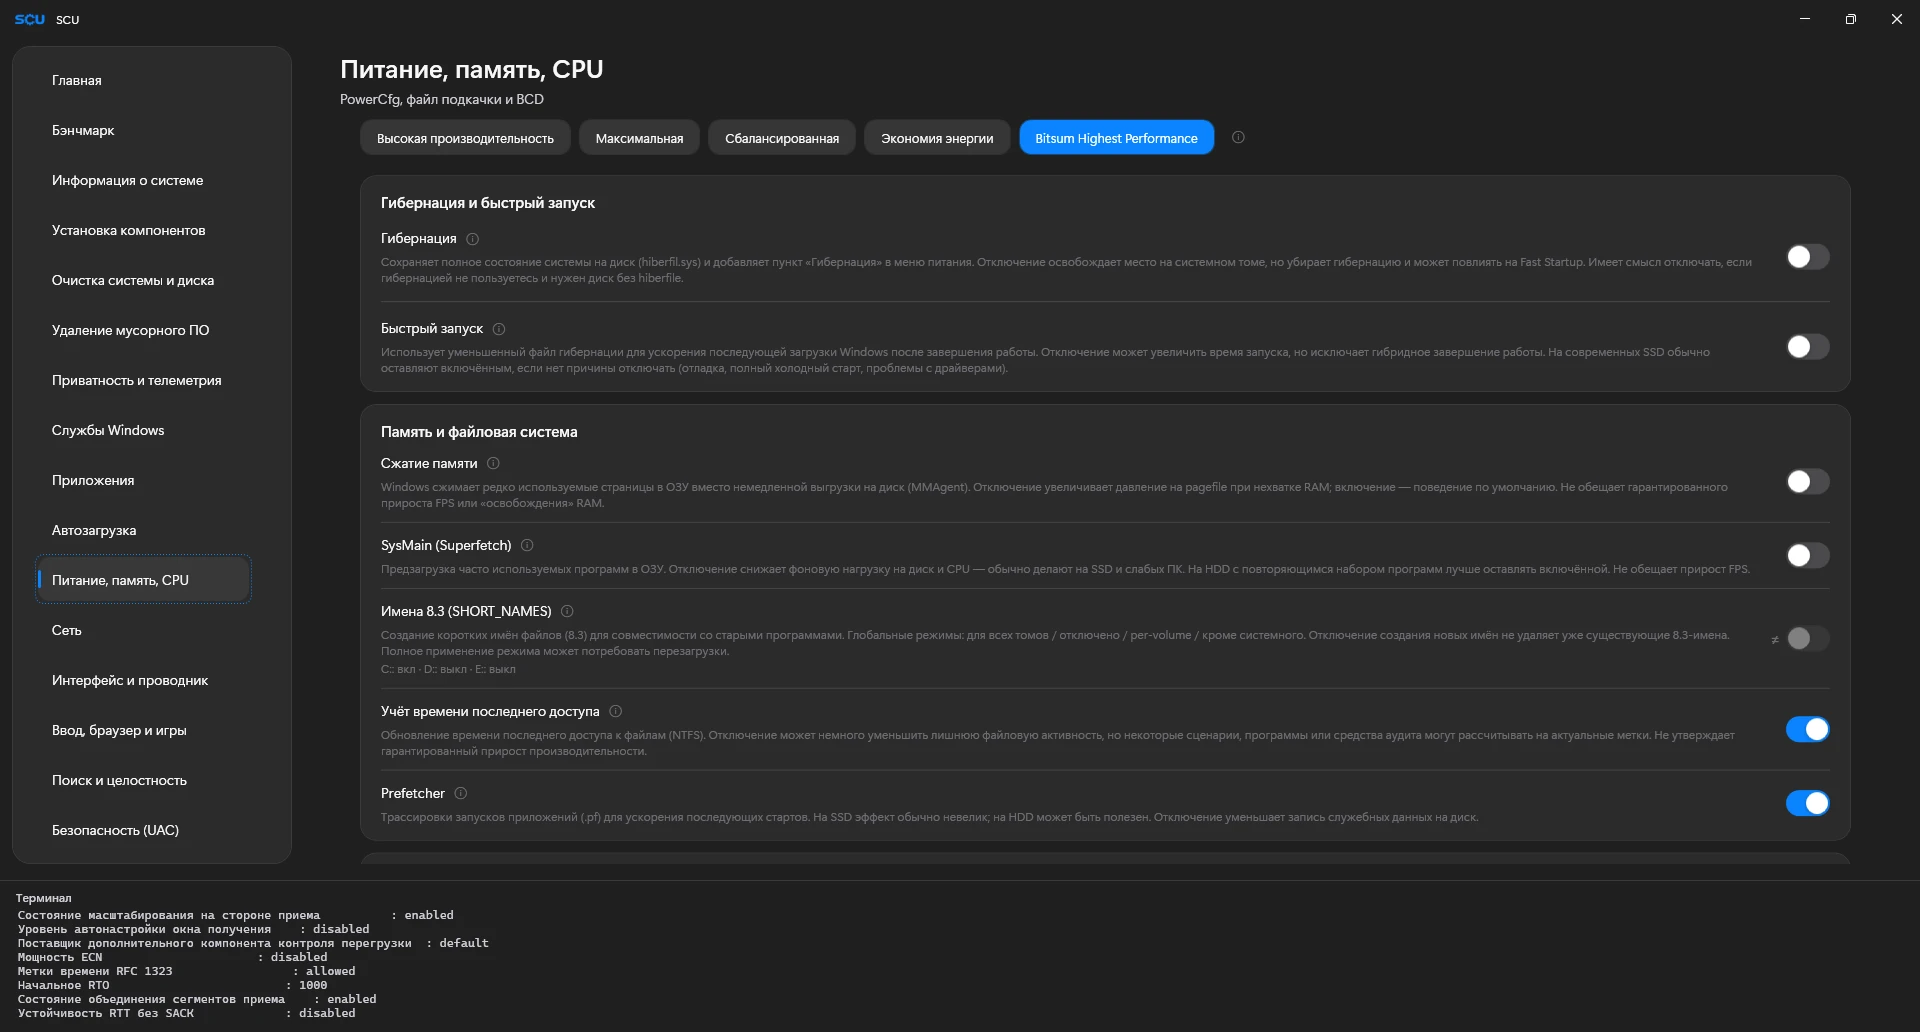
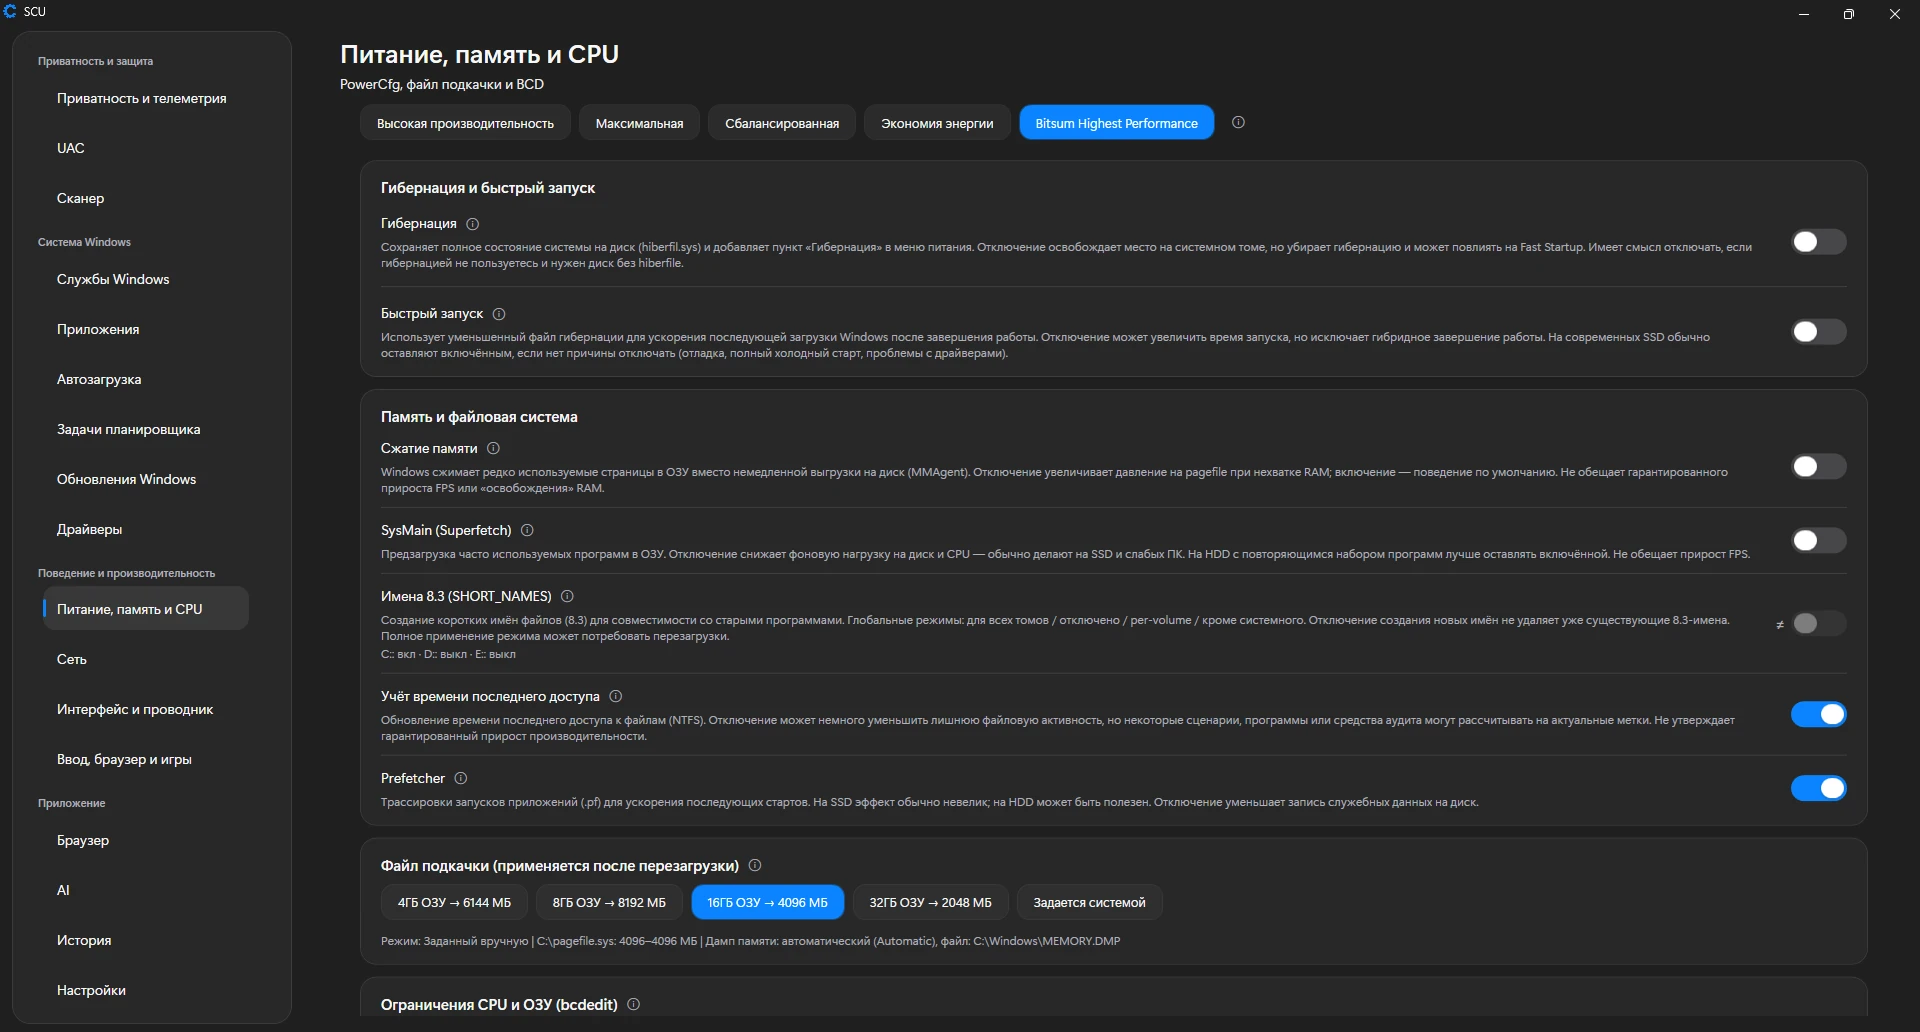
Минорное

diff --git a/index.html b/index.html
@@ -72,24 +72,32 @@
         <div class="gallery" aria-hidden="true">
             <div class="gallery-track">
                 <picture>
-                    <source srcset="static/scuapp/screen-install.webp" type="image/webp">
-                    <img src="static/scuapp/screen-install.png" width="1920" height="1032" loading="lazy" decoding="async" alt="">
+                    <source srcset="static/scuapp/screen-benchmark.webp" type="image/webp">
+                    <img src="static/scuapp/screen-benchmark.png" width="1920" height="1032" loading="lazy" decoding="async" alt="">
                 </picture>
                 <picture>
-                    <source srcset="static/scuapp/screen-cleanup.webp" type="image/webp">
-                    <img src="static/scuapp/screen-cleanup.png" width="1920" height="1032" loading="lazy" decoding="async" alt="">
+                    <source srcset="static/scuapp/screen-search.webp" type="image/webp">
+                    <img src="static/scuapp/screen-search.png" width="1920" height="1032" loading="lazy" decoding="async" alt="">
+                </picture>
+                <picture>
+                    <source srcset="static/scuapp/screen-telemetry.webp" type="image/webp">
+                    <img src="static/scuapp/screen-telemetry.png" width="1920" height="1032" loading="lazy" decoding="async" alt="">
                 </picture>
                 <picture>
                     <source srcset="static/scuapp/screen-power.webp" type="image/webp">
                     <img src="static/scuapp/screen-power.png" width="1920" height="1032" loading="lazy" decoding="async" alt="">
                 </picture>
                 <picture class="dup">
-                    <source srcset="static/scuapp/screen-install.webp" type="image/webp">
-                    <img src="static/scuapp/screen-install.png" width="1920" height="1032" loading="lazy" decoding="async" alt="">
+                    <source srcset="static/scuapp/screen-benchmark.webp" type="image/webp">
+                    <img src="static/scuapp/screen-benchmark.png" width="1920" height="1032" loading="lazy" decoding="async" alt="">
                 </picture>
                 <picture class="dup">
-                    <source srcset="static/scuapp/screen-cleanup.webp" type="image/webp">
-                    <img src="static/scuapp/screen-cleanup.png" width="1920" height="1032" loading="lazy" decoding="async" alt="">
+                    <source srcset="static/scuapp/screen-search.webp" type="image/webp">
+                    <img src="static/scuapp/screen-search.png" width="1920" height="1032" loading="lazy" decoding="async" alt="">
+                </picture>
+                <picture class="dup">
+                    <source srcset="static/scuapp/screen-telemetry.webp" type="image/webp">
+                    <img src="static/scuapp/screen-telemetry.png" width="1920" height="1032" loading="lazy" decoding="async" alt="">
                 </picture>
                 <picture class="dup">
                     <source srcset="static/scuapp/screen-power.webp" type="image/webp">

diff --git a/styles.css b/styles.css
@@ -235,14 +235,13 @@ a { color: inherit; text-decoration: none; }
 
 /* ---------- ЦЕЛЬ ---------- */
 .purpose { display: flex; margin-top: 122px; }
-/* Минимальная высота колонки задаётся самими картинками: у каждой
-   aspect-ratio 1920×1032, у трека — колонка из трёх скриншотов. Если текст
-   справа длиннее, флекс растягивает колонки на одинаковую высоту, а излишек
-   кадрируется object-fit: cover. Высота больше не зависит только от текста */
+/* Колонка скринов не тянется по высоте текстовой: картинки показываются
+   целиком, без кадрирования object-fit: cover. aspect-ratio держит высоту
+   секции до загрузки (скрины 1920×1032) — без скачка layout */
 .gallery { position: relative; width: 50%; overflow: hidden; display: flex; }
 .gallery-track { position: static; display: flex; flex-direction: column; width: 100%; }
-.gallery-track picture { flex: 1 1 auto; aspect-ratio: 1920 / 1032; min-height: 0; }
-.gallery-track picture img { width: 100%; height: 100%; object-fit: cover; }
+.gallery-track picture { flex: 0 0 auto; aspect-ratio: 1920 / 1032; min-height: 0; }
+.gallery-track picture img { width: 100%; height: auto; }
 .gallery-track picture.dup { display: none; }
 
 .info {

diff --git a/build_assets.py b/build_assets.py
@@ -5,21 +5,22 @@ import shutil
 from PIL import Image
 
 ROOT = os.path.dirname(os.path.abspath(__file__))
-STRAIGHT = os.path.join(ROOT, 'Скрины', 'Срины приложения с углами 90 градусов')
+STRAIGHT = os.path.join(ROOT, 'static', 'scuapp', 'Заменить')
 SCU = os.path.join(ROOT, 'static', 'scuapp')
 
 straight_files = ({f: os.path.join(STRAIGHT, f)
                    for f in os.listdir(STRAIGHT) if f.lower().endswith('.png')}
                   if os.path.isdir(STRAIGHT) else {})
 
-# --- 1. Скрины для карусели (прямые углы), имена прежние ---
-# рядом с png сохраняется webp: разметка подключает его через <picture>,
-# png остаётся fallback'ом. Папка с исходниками опциональна: без неё
-# существующие скрины карусели не пересобираются
+# --- 1. Скрины для карусели, имена прежние ---
+# png копируется как есть, webp пережимается (lossless-экспорт композера
+# весит ~1.3 МБ). Папка с исходниками опциональна: без неё существующие
+# скрины карусели не пересобираются
 for src_name, dst_name in [
-    ('Установка компонентов.png', 'screen-install.png'),
-    ('Удаление мусорного ПО.png', 'screen-cleanup.png'),
-    ('Питание, память, CPU.png', 'screen-power.png'),
+    ('1. screen-benchmark.png', 'screen-benchmark.png'),
+    ('2. screen-search.png', 'screen-search.png'),
+    ('3. screen-telemetry.png', 'screen-telemetry.png'),
+    ('4. screen-power.png', 'screen-power.png'),
 ]:
     if src_name not in straight_files:
         continue
